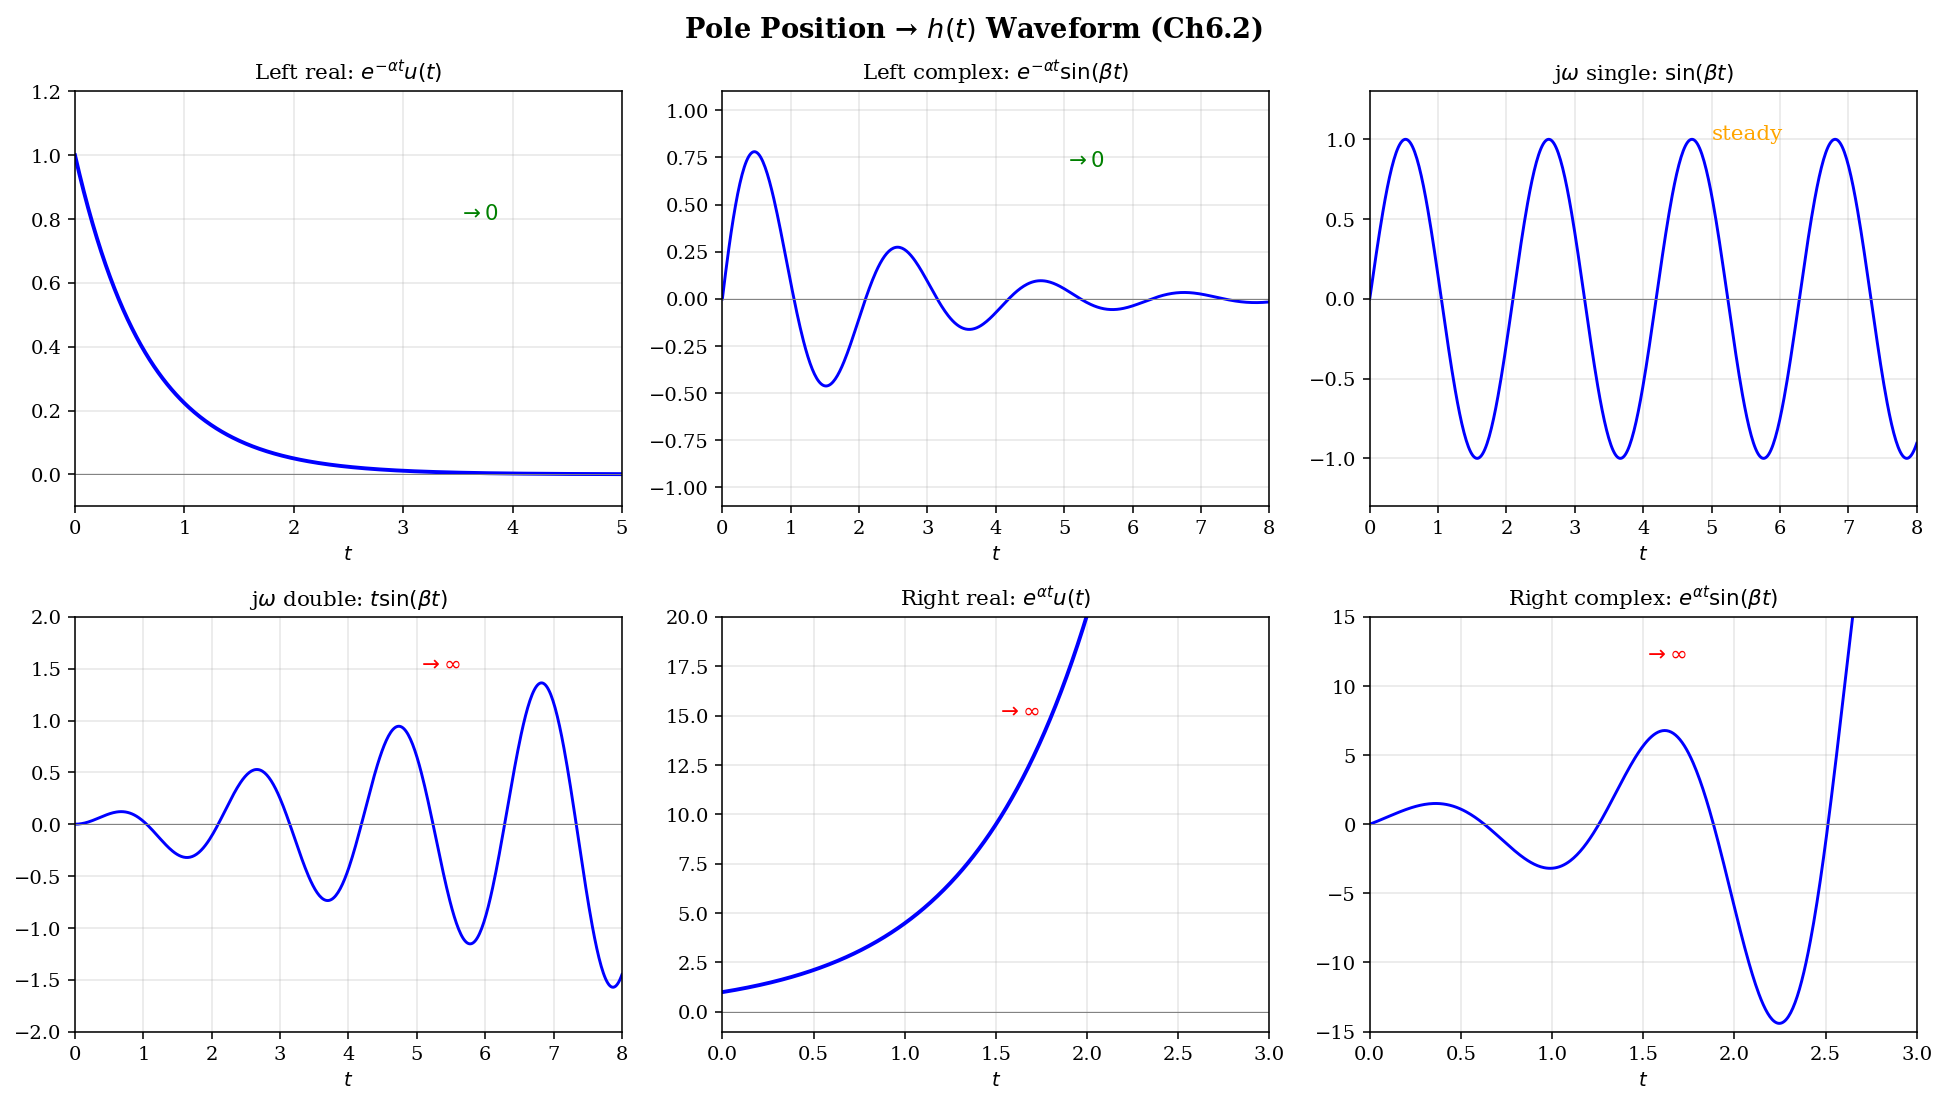
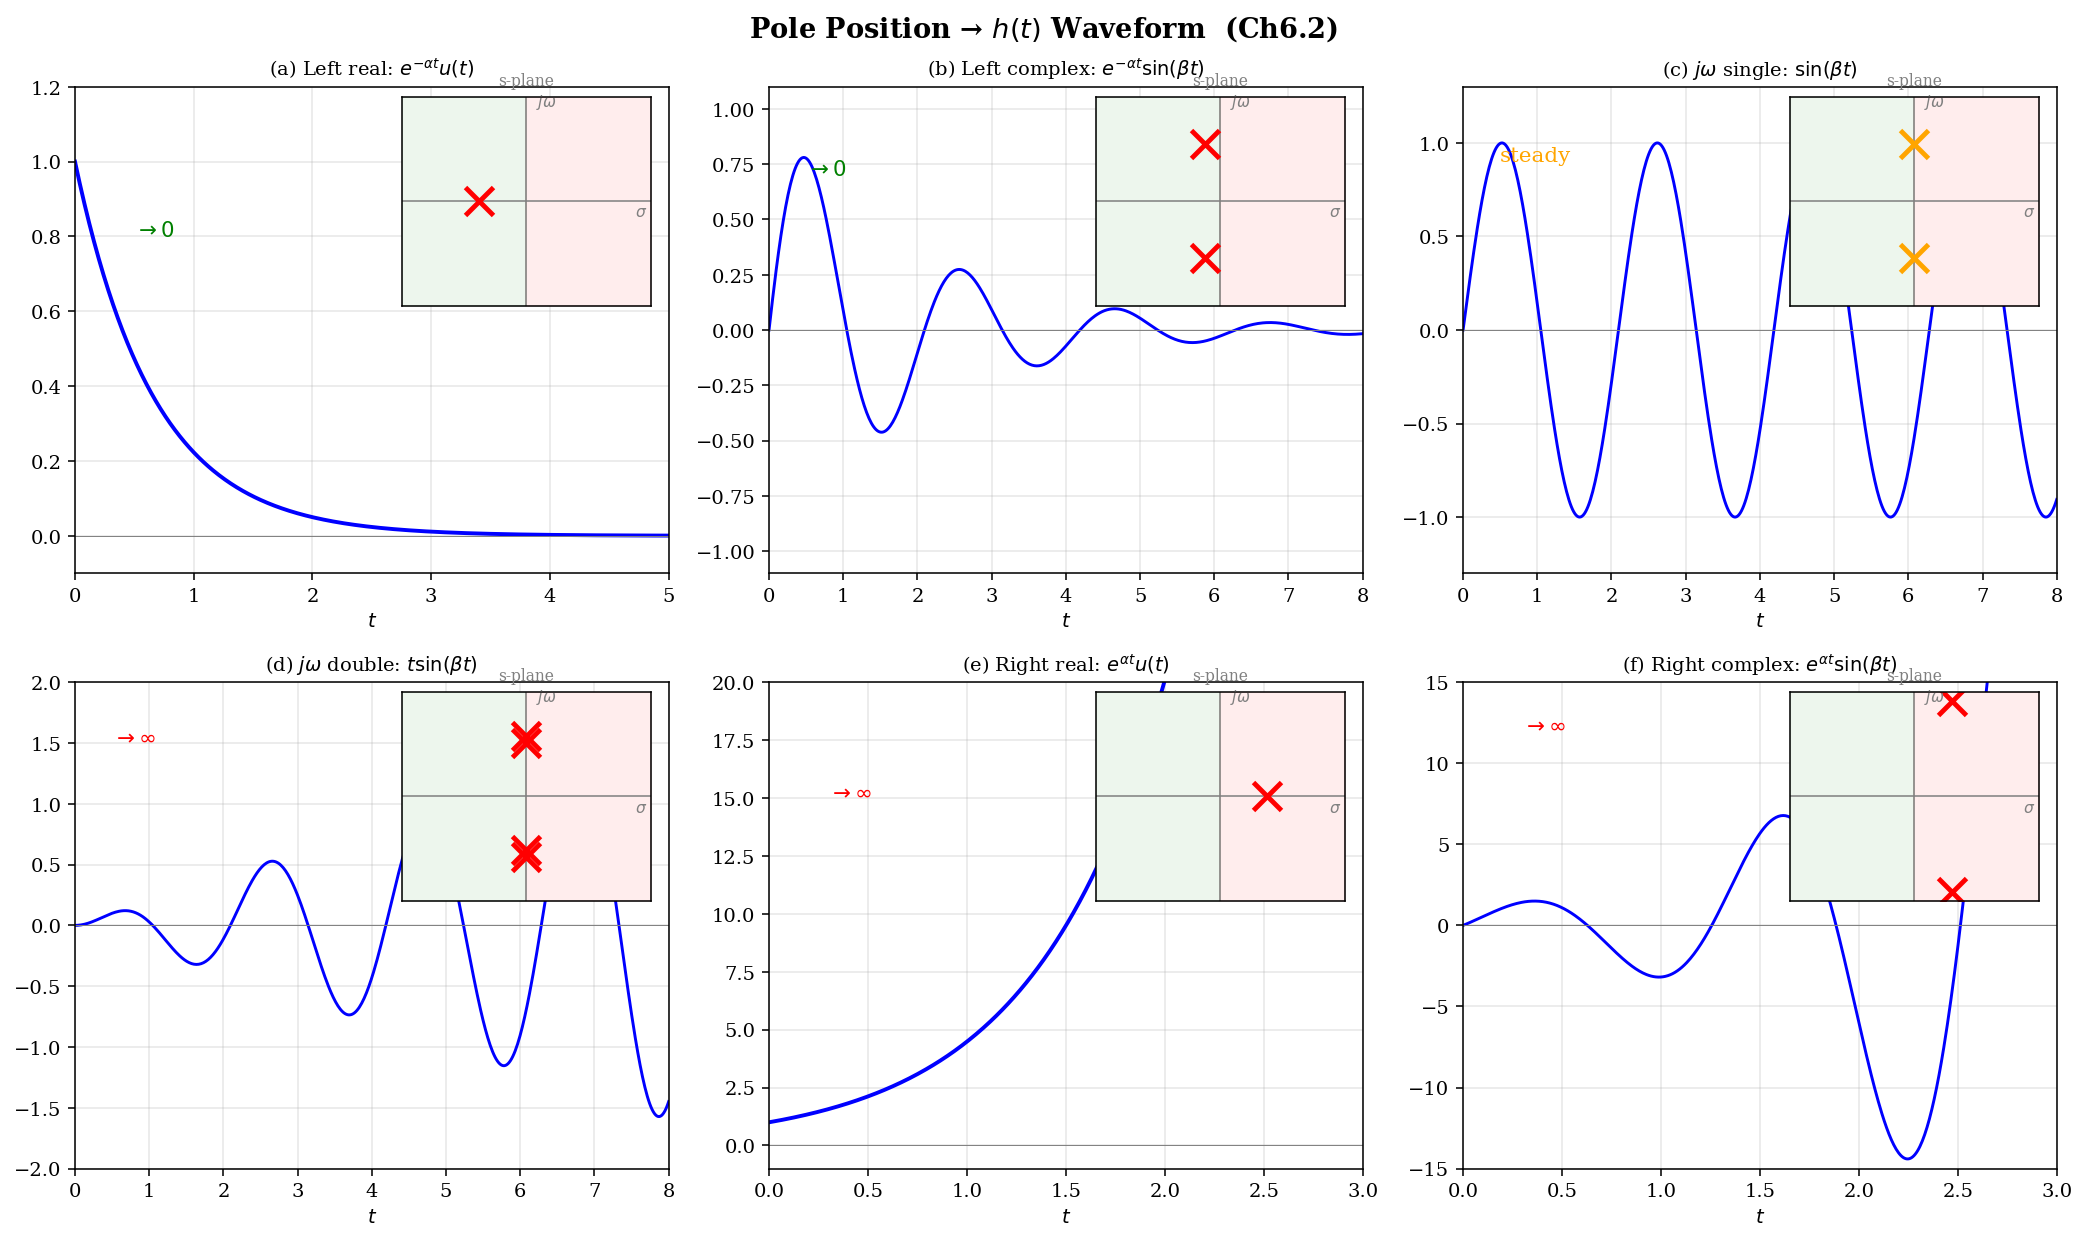
Refactor code structure for improved readability and maintainability

diff --git a/gen_ch5_figures.py b/gen_ch5_figures.py
@@ -286,63 +286,86 @@ print("Figure 6 (bilateral ROC) saved.")
 # ============================================================
 
 # --- Ch6-1: Pole position → h(t) waveform mapping ---
-fig, axes = plt.subplots(2, 3, figsize=(14, 8))
+fig, axes = plt.subplots(2, 3, figsize=(15, 9))
+
+def add_splane_inset(ax, poles, color='r'):
+    """Add an s-plane inset in the upper-right corner with labeled pole positions"""
+    inset = ax.inset_axes([0.55, 0.55, 0.42, 0.43])
+    inset.axhline(0, color='gray', lw=0.8)
+    inset.axvline(0, color='gray', lw=0.8)
+    inset.set_xlim(-4, 4); inset.set_ylim(-5.5, 5.5)
+    inset.set_xticks([]); inset.set_yticks([])
+    # use fill_between to cover full y range
+    y_vals = np.linspace(-5.5, 5.5, 10)
+    inset.fill_betweenx(y_vals, -4, 0, alpha=0.07, color='green')
+    inset.fill_betweenx(y_vals, 0, 4, alpha=0.07, color='red')
+    for p in poles:
+        inset.plot(p[0], p[1], 'x', color=color, markersize=14, markeredgewidth=2.5)
+    inset.text(3.5, -0.8, r'$\sigma$', fontsize=8, color='gray')
+    inset.text(0.3, 5.0, r'$j\omega$', fontsize=8, color='gray')
+    inset.set_title('s-plane', fontsize=8, color='gray')
 
 # (a) Left-half real pole: e^{-αt}u(t)
 ax = axes[0, 0]
 t = np.linspace(0, 5, 500)
 ax.plot(t, np.exp(-1.5*t), 'b', lw=2)
-ax.set_title(r'Left real: $e^{-\alpha t}u(t)$', fontsize=11)
+ax.set_title(r'(a) Left real: $e^{-\alpha t}u(t)$', fontsize=10)
 ax.set_xlabel('$t$'); ax.set_xlim(0, 5); ax.set_ylim(-0.1, 1.2)
 ax.axhline(0, color='gray', lw=0.5); ax.grid(True, alpha=0.3)
-ax.text(3.5, 0.8, r'$\to 0$', fontsize=11, color='green')
+ax.text(0.5, 0.8, r'$\to 0$', fontsize=11, color='green')
+add_splane_inset(ax, [(-1.5, 0)], 'r')
 
 # (b) Left-half complex conjugate: e^{-αt}sin(βt)
 ax = axes[0, 1]
 t = np.linspace(0, 8, 500)
 ax.plot(t, np.exp(-0.5*t)*np.sin(3*t), 'b', lw=1.5)
-ax.set_title(r'Left complex: $e^{-\alpha t}\sin(\beta t)$', fontsize=11)
+ax.set_title(r'(b) Left complex: $e^{-\alpha t}\sin(\beta t)$', fontsize=10)
 ax.set_xlabel('$t$'); ax.set_xlim(0, 8); ax.set_ylim(-1.1, 1.1)
 ax.axhline(0, color='gray', lw=0.5); ax.grid(True, alpha=0.3)
-ax.text(5, 0.7, r'$\to 0$', fontsize=11, color='green')
+ax.text(0.5, 0.7, r'$\to 0$', fontsize=11, color='green')
+add_splane_inset(ax, [(-0.5, 3), (-0.5, -3)], 'r')
 
 # (c) jω-axis single pole: sin(βt) (steady)
 ax = axes[0, 2]
 t = np.linspace(0, 8, 500)
 ax.plot(t, np.sin(3*t), 'b', lw=1.5)
-ax.set_title(r'j$\omega$ single: $\sin(\beta t)$', fontsize=11)
+ax.set_title(r'(c) $j\omega$ single: $\sin(\beta t)$', fontsize=10)
 ax.set_xlabel('$t$'); ax.set_xlim(0, 8); ax.set_ylim(-1.3, 1.3)
 ax.axhline(0, color='gray', lw=0.5); ax.grid(True, alpha=0.3)
-ax.text(5, 1.0, 'steady', fontsize=11, color='orange')
+ax.text(0.5, 0.9, 'steady', fontsize=11, color='orange')
+add_splane_inset(ax, [(0, 3), (0, -3)], 'orange')
 
 # (d) jω-axis double pole: t·sin(βt) (growing)
 ax = axes[1, 0]
 t = np.linspace(0, 8, 500)
 ax.plot(t, 0.2*t*np.sin(3*t), 'b', lw=1.5)
-ax.set_title(r'j$\omega$ double: $t\sin(\beta t)$', fontsize=11)
+ax.set_title(r'(d) $j\omega$ double: $t\sin(\beta t)$', fontsize=10)
 ax.set_xlabel('$t$'); ax.set_xlim(0, 8); ax.set_ylim(-2, 2)
 ax.axhline(0, color='gray', lw=0.5); ax.grid(True, alpha=0.3)
-ax.text(5, 1.5, r'$\to\infty$', fontsize=11, color='red')
+ax.text(0.5, 1.5, r'$\to\infty$', fontsize=11, color='red')
+add_splane_inset(ax, [(0, 3.2), (0, 2.8), (0, -2.8), (0, -3.2)], 'red')  # double pole
 
 # (e) Right-half real pole: e^{αt}u(t) (diverging)
 ax = axes[1, 1]
 t = np.linspace(0, 3, 500)
 ax.plot(t, np.exp(1.5*t), 'b', lw=2)
-ax.set_title(r'Right real: $e^{\alpha t}u(t)$', fontsize=11)
+ax.set_title(r'(e) Right real: $e^{\alpha t}u(t)$', fontsize=10)
 ax.set_xlabel('$t$'); ax.set_xlim(0, 3); ax.set_ylim(-1, 20)
 ax.axhline(0, color='gray', lw=0.5); ax.grid(True, alpha=0.3)
-ax.text(1.5, 15, r'$\to\infty$', fontsize=11, color='red')
+ax.text(0.3, 15, r'$\to\infty$', fontsize=11, color='red')
+add_splane_inset(ax, [(1.5, 0)], 'r')
 
 # (f) Right-half complex: e^{αt}sin(βt) (diverging oscillation)
 ax = axes[1, 2]
 t = np.linspace(0, 3, 500)
 ax.plot(t, np.exp(1.2*t)*np.sin(5*t), 'b', lw=1.5)
-ax.set_title(r'Right complex: $e^{\alpha t}\sin(\beta t)$', fontsize=11)
+ax.set_title(r'(f) Right complex: $e^{\alpha t}\sin(\beta t)$', fontsize=10)
 ax.set_xlabel('$t$'); ax.set_xlim(0, 3); ax.set_ylim(-15, 15)
 ax.axhline(0, color='gray', lw=0.5); ax.grid(True, alpha=0.3)
-ax.text(1.5, 12, r'$\to\infty$', fontsize=11, color='red')
+ax.text(0.3, 12, r'$\to\infty$', fontsize=11, color='red')
+add_splane_inset(ax, [(1.2, 5), (1.2, -5)], 'r')
 
-fig.suptitle('Pole Position → $h(t)$ Waveform (Ch6.2)', fontsize=14, fontweight='bold')
+fig.suptitle('Pole Position → $h(t)$ Waveform  (Ch6.2)', fontsize=14, fontweight='bold')
 fig.tight_layout()
 fig.savefig(os.path.join(out, 'xh_ch6_pole_h.png'))
 plt.close(fig)

diff --git a/note/信号与系统.md b/note/信号与系统.md
@@ -4224,7 +4224,7 @@ $$
 j\omega - z_i = B_i e^{j\beta_i}, \qquad j\omega - p_i = A_i e^{j\alpha_i}
 $$
 
-则：
+代入 $H(j\omega)$ 表达式：
 
 ### 6.3.2 幅频与相频的几何意义
 
@@ -4235,14 +4235,15 @@ $$
 
 | 频响分量 | 几何意义 |
 | :--- | :--- |
-| 幅频 $|H(j\omega)|$ | 零点矢量模的乘积 ÷ 极点矢量模的乘积（再乘 $H_0$） |
-| 相频 $\varphi(\omega)$ | 零点矢量相角之和 − 极点矢量相角之和 |
+| 幅频 $\vert H(j\omega)\vert$ | $H_0 \times$ 零点矢量模的乘积 $\div$ 极点矢量模的乘积 |
+| 相频 $\varphi(\omega)$ | 零点矢量相角之和 $-$ 极点矢量相角之和 |
 
 > 给定 $\omega$，在 s 平面上从各零/极点向 $j\omega$ 点画向量，量取长度 $B_i$、$A_i$ 和角度 $\beta_i$、$\alpha_i$，即可勾画频响曲线。这就是**频响特性的几何作图法**。
 
 ### 6.3.3 示例：RC 高通滤波器
 
-电路：$R$ 和 $C$ 串联，输出取自 $R$ 两端。
+![xh_rc](./images/xh_rc.png)
+
 
 系统函数：
 